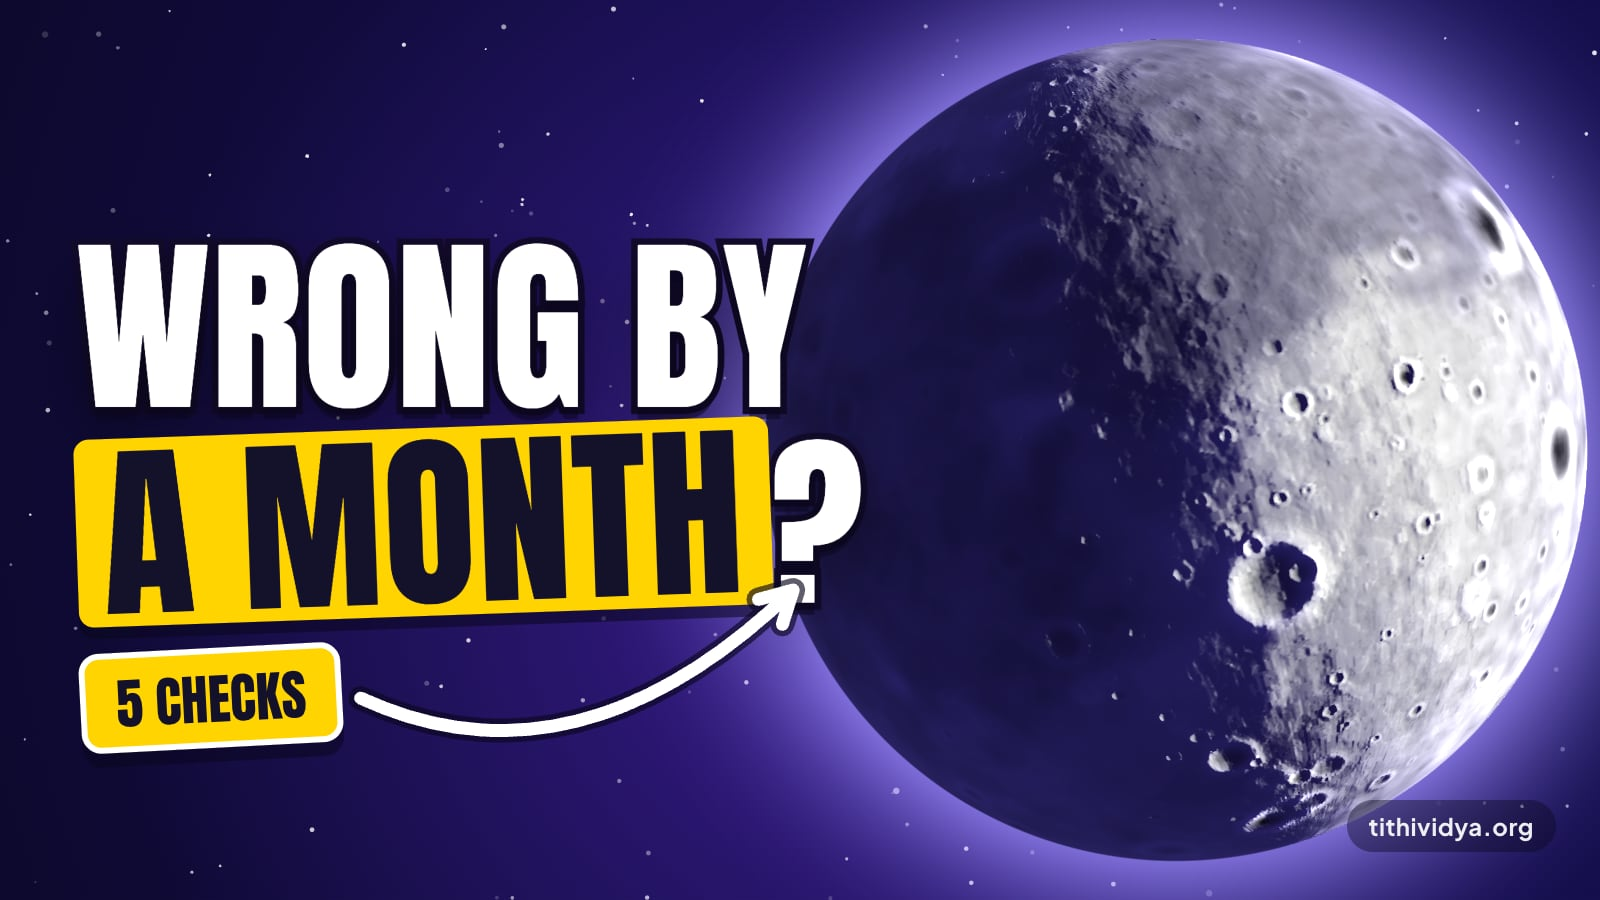
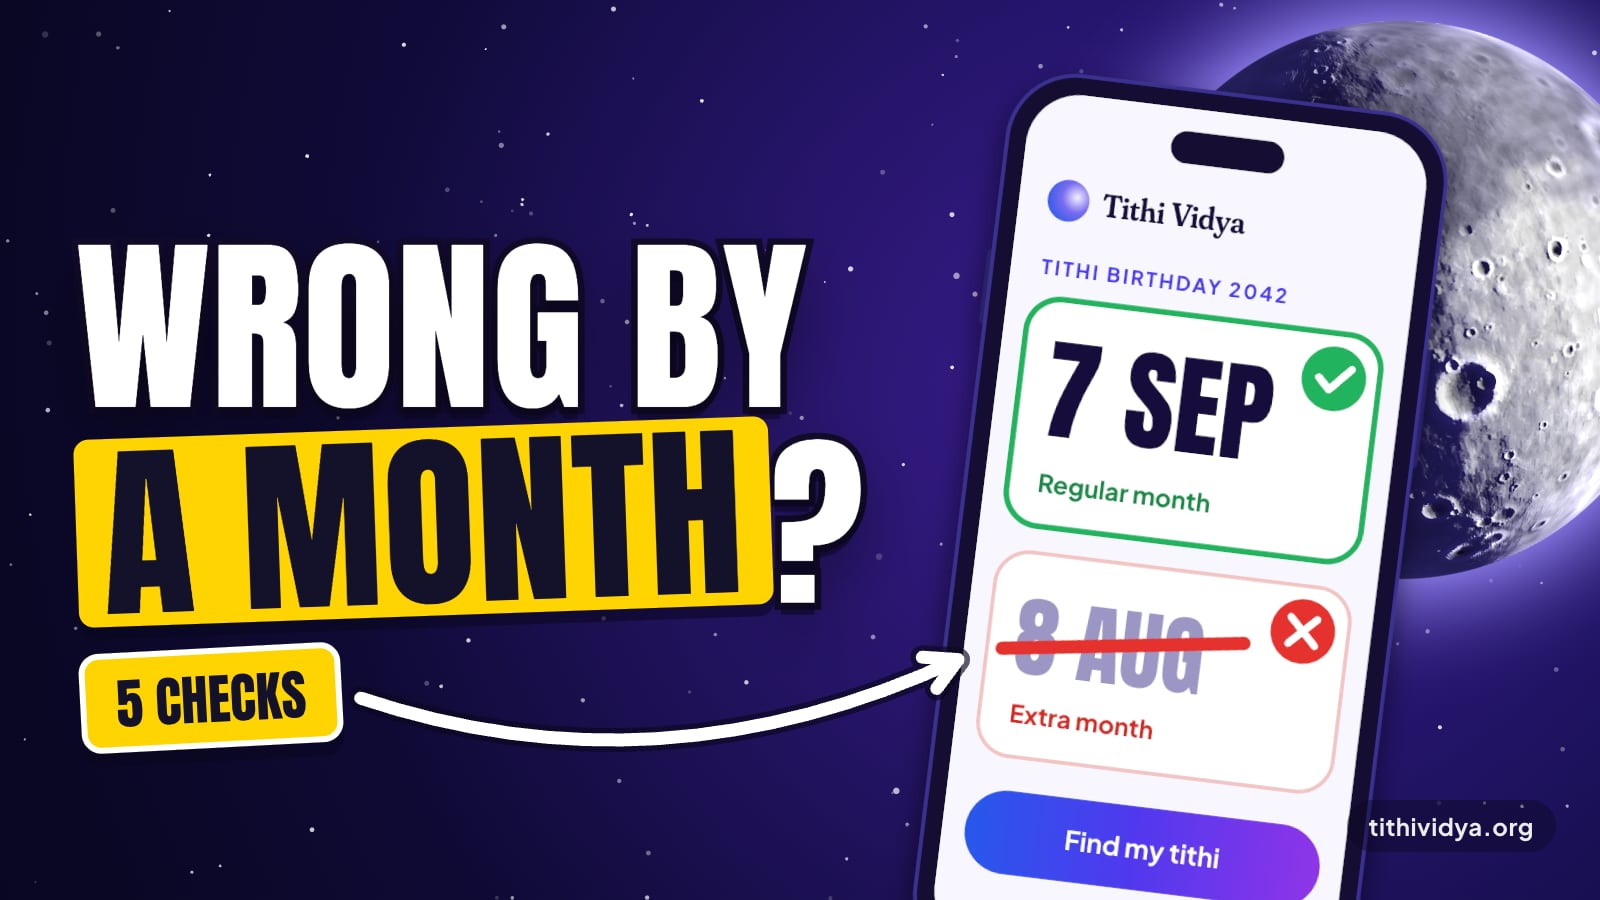
Add the Chhath Puja 2026 post, and give each new cover its own picture
- New post for 10 Nov: Chhath Puja 2026 dates, Kharna, and sunset and
  sunrise arghya times for 8 cities (engine dates, DE440 sun times),
  with a four-day timeline.
- Redraw the 8, 9 and 10 Nov covers so they no longer look alike: a
  phone with the clashing dates, marigold garlands with the broken bow,
  and the sun setting on a river with a soop of offerings. Alt text
  updated to match.
- Brand kit: the generated guide links to the README on GitHub.

diff --git a/site/content/blog/chhath-puja/index.md b/site/content/blog/chhath-puja/index.md
@@ -1,0 +1,127 @@
+---
+title: "Chhath Puja 2026: dates, Kharna and arghya times"
+description: "Chhath Puja 2026 runs from 13 to 16 November, with the evening arghya on Sunday the 15th. Sunset and sunrise times for Patna, Delhi and 6 more cities."
+date: 2026-11-10
+tags: [festivals, hindu calendar]
+cover: cover.jpg
+coverAlt: "Calendar pages for 15 and 16 November, the sun setting on a river and a soop of offerings, with the words Chhath 2026"
+---
+
+**Chhath Puja 2026 is from Friday, 13 November, to Monday, 16 November.** The main evening arghya is at sunset on Sunday, 15 November: 5:00 pm in Patna. The fast ends with the morning arghya at sunrise on Monday, 16 November, at 6:07 am in Patna.
+
+Notice the order. Most prayers to the sun greet it as it rises. Chhath's biggest moment is an offering to the setting sun, and the sunrise comes the next morning. Times for your city are below.
+
+## Chhath Puja 2026 dates: all four days
+
+| Day | Date | What happens |
+| --- | --- | --- |
+| 1. Nahay Khay | Friday, 13 November | A holy bath and one pure meal |
+| 2. Kharna | Saturday, 14 November | A fast all day, then kheer after sunset |
+| 3. Sandhya Arghya | Sunday, 15 November | The offering to the setting sun |
+| 4. Usha Arghya | Monday, 16 November | The offering to the rising sun, then the fast ends |
+
+These dates hold across India and Nepal. Each day follows a tithi, or lunar day, and this year no tithi changes anywhere near sunrise, so no region ends up a day apart. If tithis are new to you, [here's what a tithi is, with a picture](/blog/tithi-birthday).
+
+## Chhath arghya time 2026 in your city
+
+Both arghyas are timed by the sun itself: the evening one as it sets on 15 November, and the morning one as it rises on 16 November.
+
+| City | Sunset, Sun 15 Nov | Sunrise, Mon 16 Nov |
+| --- | --- | --- |
+| Patna | 5:00 pm | 6:07 am |
+| Ranchi | 5:03 pm | 6:03 am |
+| Varanasi | 5:10 pm | 6:15 am |
+| Kolkata | 4:52 pm | 5:49 am |
+| Lucknow | 5:15 pm | 6:26 am |
+| New Delhi | 5:27 pm | 6:44 am |
+| Mumbai | 6:00 pm | 6:46 am |
+| Janakpur, Nepal | 5:10 pm | 6:21 am |
+
+The times are in IST, except Janakpur, which is in Nepal time. Each one is the moment the top edge of the sun meets a flat horizon. I worked them out from NASA JPL's [DE440 data](https://ssd.jpl.nasa.gov/doc/de440_de441.html), the same way [Tithi Vidya works out sunrise](/how-it-works).
+
+A real river bank isn't flat, though. Behind trees or buildings, the sun drops out of sight a few minutes before sunset and shows up a few minutes after sunrise. So reach the ghat early, on both days.
+
+## What happens on each day of Chhath
+
+![Timeline of Chhath Puja 2026: Nahay Khay on 13 November, Kharna on 14, evening arghya on 15, morning arghya on 16](chhath-puja-2026-four-days.png "The dates are the same across India and Nepal. The times are for Patna.")
+
+1. **Nahay Khay, 13 November.** The person keeping the fast, called the parvaitin, takes a holy bath, often in a river, and the whole house is cleaned. Then comes one simple, pure meal, usually lauki bhaat: bottle gourd, chana dal and rice, cooked without onion or garlic.
+2. **Kharna, 14 November.** A fast through the day, without even water. After sunset, the parvaitin eats kheer made with jaggery, with roti. This meal starts the hardest part: about 36 hours with no food or water.
+3. **Sandhya Arghya, 15 November.** The day goes into making prasad, above all thekua, a crisp fried sweet of wheat flour, jaggery and ghee. In the evening the family walks to a river or pond. The parvaitin stands in the water and offers arghya to the setting sun, with thekua and fruit in bamboo baskets.
+4. **Usha Arghya, 16 November.** Back to the water before dawn, for the arghya to the rising sun. Then the parvaitin breaks the fast with a little prasad and water. This is called Paran.
+
+Where there's no river nearby, families use a pond, or set up a tank of water at home or on the roof.
+
+## Which tithi is Chhath Puja?
+
+The main day is **Kartika Shukla Shashthi**, the 6th tithi of the bright half of the month of Kartika. That's where the name comes from: chhath simply means "the sixth". The festival is also called Surya Shashthi, and its four days run from Chaturthi, the 4th tithi, to Saptami, the 7th.
+
+This year, Shashthi begins at 11:24 pm on Saturday, 14 November, and ends at 2:01 am on Monday, 16 November (New Delhi time). It covers all of Sunday, sunset included, so there's no doubt about the evening arghya.
+
+Because it follows the moon, Chhath moves every year. It usually comes about a week after Diwali, which is on 8 November in 2026.
+
+| Year | Nahay Khay | Evening arghya | Morning arghya |
+| --- | --- | --- | --- |
+| 2026 | Fri, 13 Nov | Sun, 15 Nov | Mon, 16 Nov |
+| 2027 | Tue, 2 Nov | Thu, 4 Nov | Fri, 5 Nov |
+| 2028 | Sat, 21 Oct | Mon, 23 Oct | Tue, 24 Oct |
+| 2029 | Fri, 9 Nov | Sun, 11 Nov | Mon, 12 Nov |
+
+See the pattern? The evening arghya comes 11 days earlier in 2027, and 12 days earlier again in 2028. Then 2029 jumps back into November. A lunar year is about 11 days shorter than ours, and every few years an extra month pulls it back into line. [Why Hindu dates move like this](/blog/why-your-hindu-birthday-moves) has the full story.
+
+> **Read next:** [Tithi birthday calculator: 5 things it must get right](/blog/tithi-birthday-calculator). Sunrise is one of them, and it's the same rule that fixes Chhath's dates.
+
+## Why Chhath Puja is celebrated
+
+Chhath gives thanks to **Surya**, the sun god, for life on Earth. It also honours **Chhathi Maiya**, Surya's sister, who is prayed to for the long life and good health of children. So the fast is kept for the children and the whole family. The parvaitin is usually a woman, but men keep it too.
+
+Tradition ties Chhath to both great epics. In one telling, Sita kept the fast after she and Ram returned to Ayodhya. In the Mahabharata, Kunti and Draupadi keep it. [Wikipedia's page on Chhath](https://en.wikipedia.org/wiki/Chhath) has these stories and more.
+
+It's biggest in Bihar, Jharkhand, eastern Uttar Pradesh and southern Nepal, where it's often called the mahaparv, the great festival. Families from there carry it everywhere they settle, so you'll see crowded ghats in Delhi, Mumbai, Kolkata and Kathmandu, and abroad too. In Mithila, another big day comes a month later: [Vivah Panchami](/blog/vivah-panchami), the wedding of Ram and Sita, on 14 December.
+
+## Chhath fasting rules most families keep
+
+- **Purity first.** The prasad is cooked fresh, without onion or garlic, and the arghya prasad without salt.
+- **No water from Kharna to Paran.** That's about 36 hours, from the Kharna meal to the morning arghya.
+- **The same offerings for everyone.** Rich or poor, families offer much the same things: thekua, sugarcane, coconut, bananas and other seasonal fruit.
+- **For some, it's for life.** In some communities, once someone starts keeping Chhath, they keep it every year and pass it on. It's skipped only in a year when the family has had a death.
+
+Every family has its own ways, so the elders' word counts for more than any list. And a 36-hour fast without water is hard on the body. If you're pregnant, diabetic or on medicine, talk to your doctor before a fast.
+
+## Common questions
+
+### Is Chhath Puja on 15 or 16 November 2026?
+
+Both, in a way. The main evening arghya is on Sunday, 15 November, and the morning arghya that ends the fast is on Monday, 16 November. The festival starts two days earlier, with Nahay Khay on Friday, 13 November.
+
+### When is Kharna in 2026?
+
+On Saturday, 14 November. The Kharna meal of jaggery kheer and roti is eaten after sunset that evening.
+
+### Is the Chhath arghya at sunrise or sunset?
+
+Both. The Sandhya Arghya is at sunset on Shashthi, 15 November, and the Usha Arghya is at sunrise on Saptami, 16 November. Chhath honours the sun at both ends of its day, and the evening offering to a setting sun is what makes it stand out among Hindu festivals.
+
+### How many days is Chhath Puja?
+
+Four days and three nights, from Kartika Shukla Chaturthi to Saptami. In 2026, that's from Friday, 13 November, to Monday, 16 November.
+
+### Is Chhath Puja a holiday?
+
+Holidays are set state by state. Bihar and Jharkhand, where Chhath is biggest, usually close offices and schools for it. Check your state's 2026 holiday list for the exact days.
+
+### When is Chhath Puja in 2027?
+
+From Tuesday, 2 November, to Friday, 5 November 2027. The evening arghya is on Thursday, 4 November.
+
+### When is Chaiti Chhath in 2027?
+
+Chhath also comes in spring, in the month of Chaitra, on a smaller scale. In 2027, Chaiti Chhath's evening arghya is on Monday, 12 April, and the morning arghya on Tuesday, 13 April.
+
+> **Tip:** Chhath always falls on the same tithi, and so does your birthday in the Hindu calendar. [Find my tithi](/find) shows yours, and the dates it comes back on for the next 100 years.
+
+## Keep reading
+
+- [Vivah Panchami 2026: date, story and the wedding custom](/blog/vivah-panchami): the next big festival in Mithila, and why some families skip weddings that day.
+- [Why your Hindu birthday moves every year](/blog/why-your-hindu-birthday-moves): the same 11-day slide that moves Chhath.
+- [Tithi birthday: what it is and how to find yours](/blog/tithi-birthday): tithis explained, with a real example.

diff --git a/site/content/blog/tithi-birthday-calculator/index.md b/site/content/blog/tithi-birthday-calculator/index.md
@@ -4,7 +4,7 @@ description: "How a tithi birthday calculator works, the 5 things that can make 
 date: 2026-11-08
 tags: [tithi, birthday]
 cover: cover.jpg
-coverAlt: "A half moon next to the words Wrong by a month, with a yellow sticker that says 5 checks"
+coverAlt: "A phone showing 7 Sep ticked and 8 Aug crossed out, beside the words Wrong by a month and a sticker saying 5 checks"
 ---
 
 **A tithi birthday calculator takes your birth date, time and place, finds the tithi you were born on, and then finds the day it comes back each year.** That sounds simple. But five small choices inside it decide whether your date is right, a day off, or a whole month off.

diff --git a/site/content/blog/vivah-panchami/index.md b/site/content/blog/vivah-panchami/index.md
@@ -4,7 +4,7 @@ description: "Vivah Panchami 2026 is on Monday, 14 December. Exact tithi times, 
 date: 2026-11-09
 tags: [festivals, hindu calendar]
 cover: cover.jpg
-coverAlt: "A calendar page for 14 December next to a crescent moon, with the words Vivah Panchami 2026 and a sticker asking No weddings?"
+coverAlt: "A calendar page for 14 December, marigold garlands and a golden bow broken in two, with the words Vivah Panchami 2026"
 ---
 
 **Vivah Panchami 2026 is on Monday, 14 December.** The Panchami tithi runs from 4:48 pm on Sunday, 13 December, to 7:16 pm on Monday, 14 December, in New Delhi. It marks the wedding of Ram and Sita.
